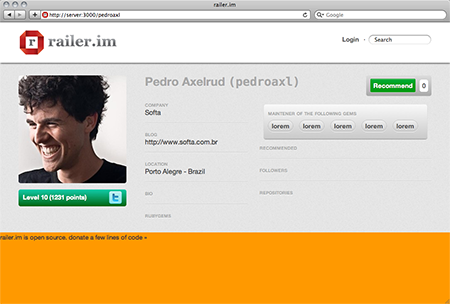
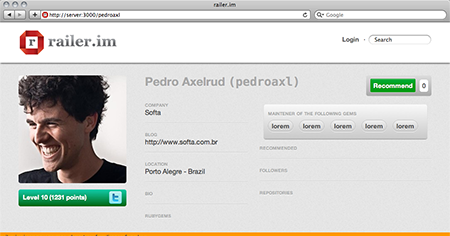
users @ rubygems

diff --git a/app/stylesheets/partials/_style.sass b/app/stylesheets/partials/_style.sass
@@ -20,8 +20,6 @@ body
     background: white
     h1
       +reset-box-model
-    img#logo
-      background: transparent url(/images/railerim_logo_small_background.png) no-repeat
     form
       padding-top: 12px
       text-align: right
@@ -98,8 +96,7 @@ body
     float: right
   a.railerim_button
     +border-radius(3px)
-    border: 1px solid #808080
-    -webkit-box-shadow: rgba(#FFF,.5) 0 1px 0 inset, rgba(#fff,.5) 0 1px 0
+    -webkit-box-shadow: rgba(#FFF,.6) 0 1px 1px inset, rgba(#fff,.6) 0 1px 1px
     color: white
     text-shadow: #070 1px 1px 0
     font-weight: 900
@@ -108,14 +105,12 @@ body
     +grad(#0E7,#091)
     float: right
     &:hover
-      border-color: #091
       -webkit-box-shadow: rgba(#FFF,.5) 0 1px 0 inset, rgba(#fff,.5) 0 1px 0
       +grad(#0A3,#091)
       color: white
       text-decoration: none
       text-shadow: (#091 - #222) 1px 1px 0
     &:active
-      border-color: #606060
       +grad(#091,#0A3)
     &.recommended
       +grad(#0A3,#091)
@@ -194,7 +189,7 @@ body
     +border-radius(2px)
     +box-shadow(rgba(#000,.6),0,1px,3px, inset)
     background-color: white
-    line-height: 26px
+    line-height: 24px
     padding: 4px 4px 4px 36px
     margin-left: 8px
     float: right

diff --git a/app/stylesheets/partials/_form.sass b/app/stylesheets/partials/_form.sass
@@ -7,6 +7,8 @@ body
       margin: 0
       font-size: 18px
       width: 400px
+      &:focus
+        background-color: #b4f4ff
     #login_error
       color: #C33
     .required_field

diff --git a/app/models/rubygem.rb b/app/models/rubygem.rb
@@ -1,9 +1,14 @@
 class Rubygem < ActiveRecord::Base
+
   label :name
   scope :by_downloads, order('downloads desc')
   has_many :authorships
   has_many :authors, :class_name => 'User', :through => :authorships
 
+  # HERE WE TRY TO GET RUBYGEM USERS
+  has_many :dependents, :class_name => 'Dependency', :foreign_key => :rubygem_id
+  has_many :repositories, :through => :dependents
+  
   serialize :indicators
   def uri
     @uri ||= homepage_uri || wiki_uri || project_uri
